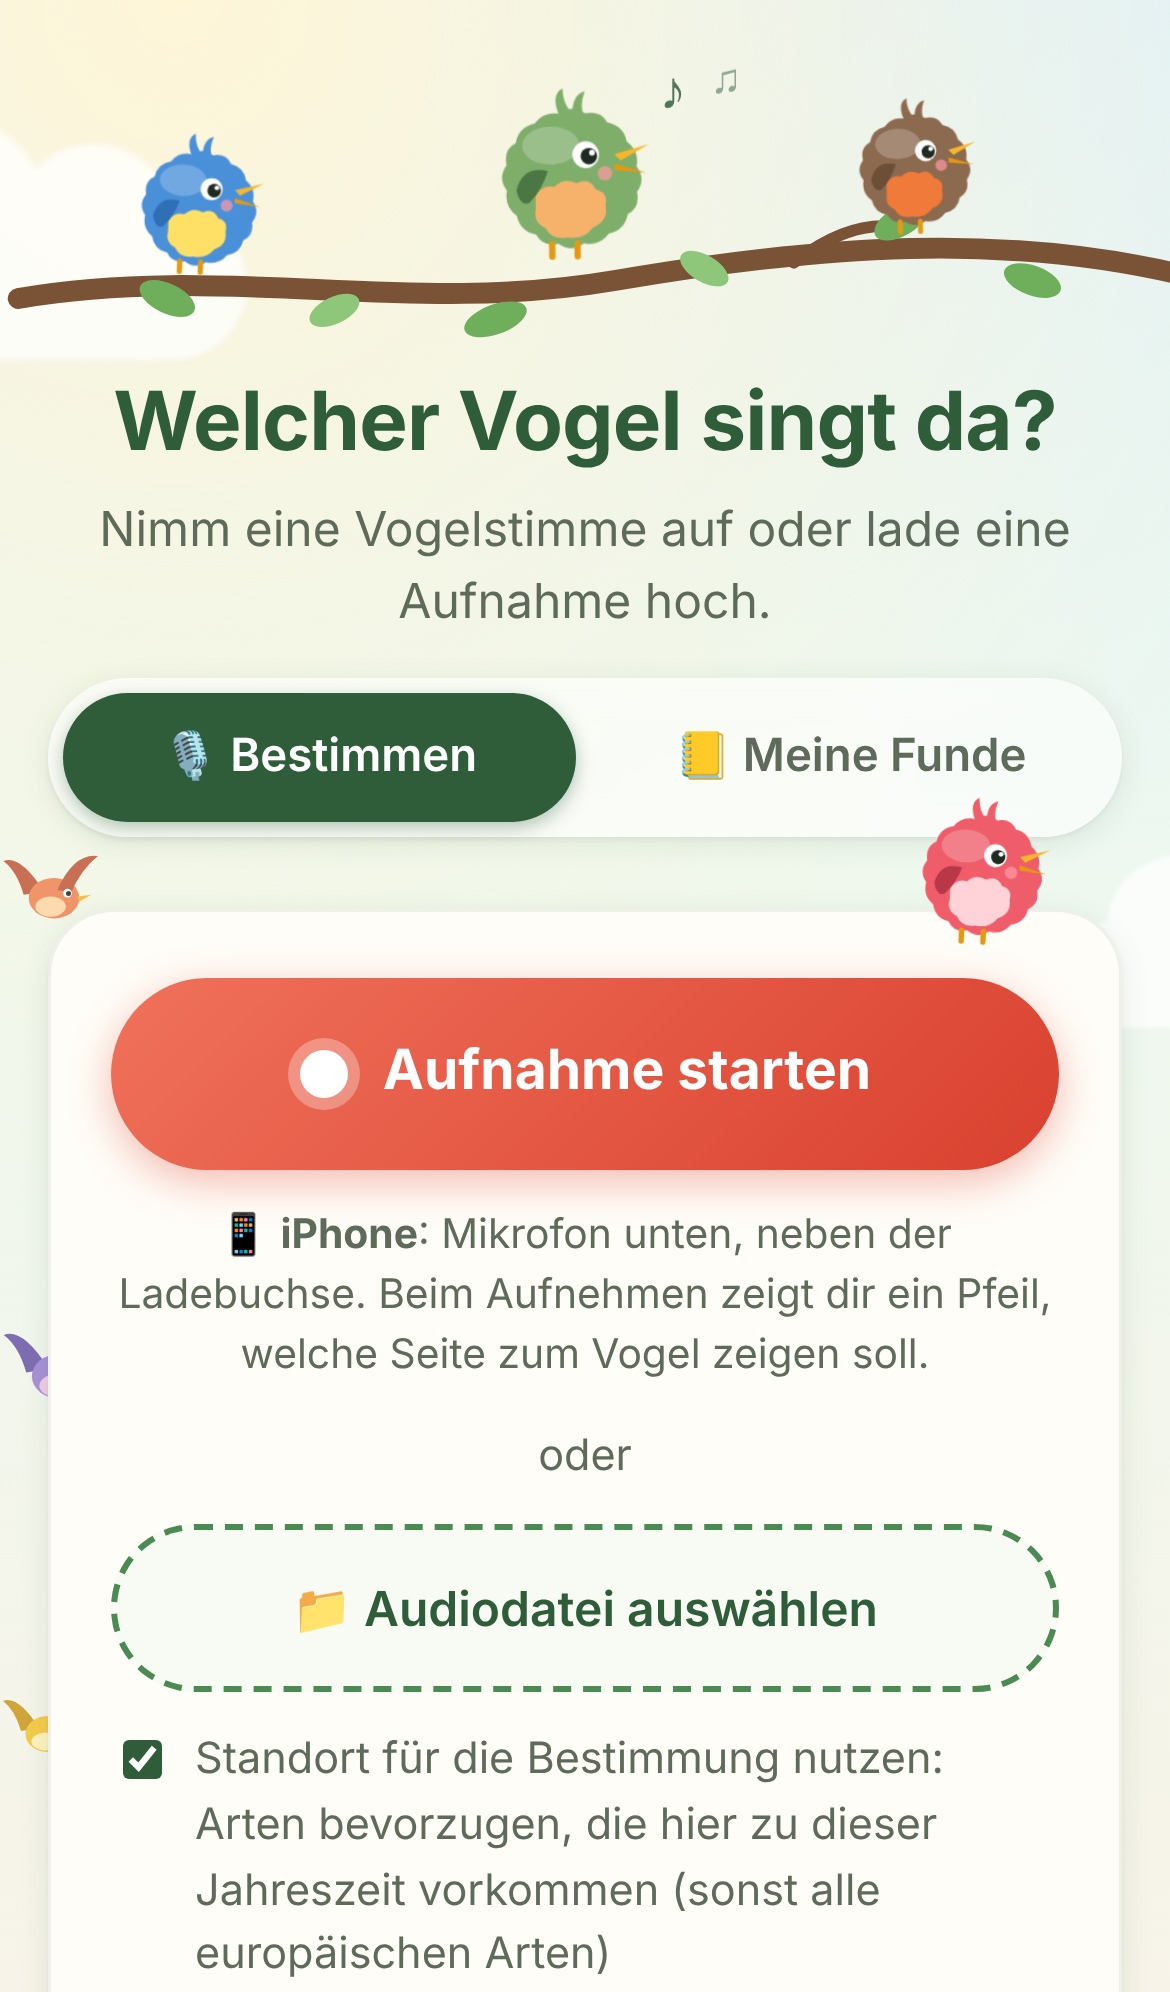
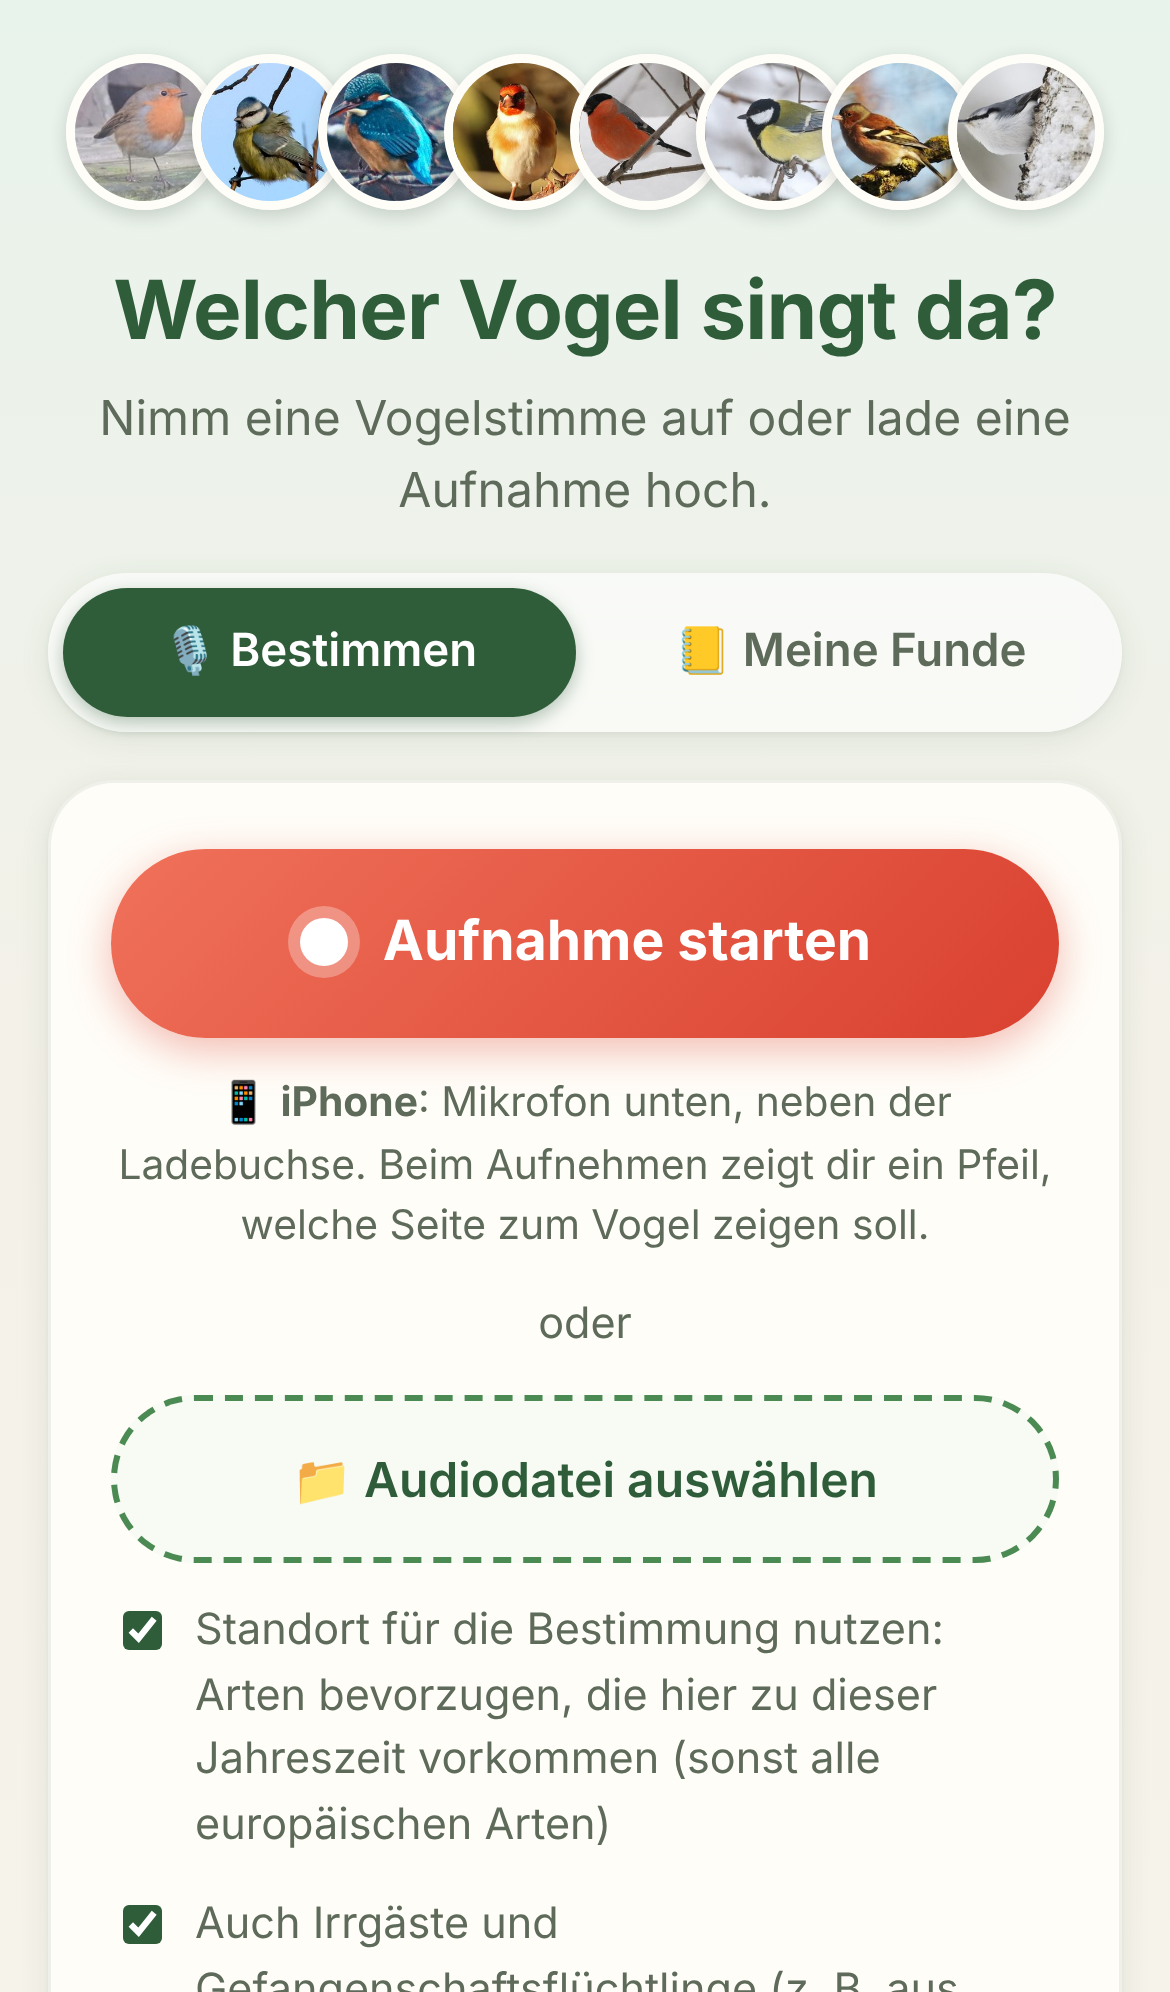
Echte Vogelfotos statt Comicvögel, ruhiges Design
- Comicvögel, Wolken, fliegende Vögel und Wackel-Animationen entfernt
- Runde Porträts echter Vögel (Rotkehlchen, Blaumeise, Eisvogel,
  Stieglitz, Gimpel, Kohlmeise, Buchfink, Kleiber): als Reihe im Kopf,
  auf breiten Bildschirmen ruhig an beiden Rändern
- Fotos von iNaturalist (CC BY 4.0), Bildnachweis in der App
- Pfeil im Aufnahme-Vollbild steht jetzt still

Claude-Session: https://claude.ai/code/session_01DCcVV16AViu8jSSijMqtxS

diff --git a/index.html b/index.html
@@ -12,50 +12,11 @@
 <link rel="stylesheet" href="style.css">
 </head>
 <body>
-<!-- Vogel-Bausteine: Farben kommen über CSS-Variablen (--c1 Körper, --c2 Bauch, --c3 Flügel) -->
-<svg width="0" height="0" style="position:absolute" aria-hidden="true">
-  <symbol id="bird" viewBox="0 0 64 64">
-    <path style="fill:var(--c1)" d="M30 13 q-3 -7 1 -9 q0 5 3 8 q0 -6 4 -7 q-2 5 0 9 z"/>
-    <path style="fill:var(--c1)" d="M30 12 q4 -3 8 0 q5 -1 7 3 q5 1 6 6 q4 3 3 8 q3 4 0 8 q1 5 -3 7 q-1 5 -6 6 q-3 4 -8 3 q-4 3 -8 0 q-5 1 -7 -3 q-5 -1 -6 -6 q-4 -3 -3 -8 q-3 -4 0 -8 q-1 -5 3 -7 q1 -5 6 -6 q3 -4 8 -3 z"/>
-    <ellipse cx="27" cy="22" rx="9" ry="6" fill="#fff" opacity=".22"/>
-    <path style="fill:var(--c2)" d="M22 38 q2 -4 6 -3 q3 -3 7 -1 q4 -2 6 2 q4 1 3 5 q1 5 -4 7 q-3 4 -8 3 q-5 1 -7 -3 q-4 -2 -3 -6 z"/>
-    <path style="fill:var(--c3)" d="M16 36 q2 -8 10 -6 q-2 6 -6 10 q-3 1 -4 -4 z"/>
-    <circle cx="38" cy="25" r="4.2" fill="#fff"/><circle cx="39" cy="25.5" r="2.6" fill="#1f2a22"/><circle cx="40" cy="24.4" r=".9" fill="#fff"/>
-    <circle cx="44" cy="31" r="2.3" fill="#ff9aa2" opacity=".7"/>
-    <path style="fill:var(--beak,#f6b72c)" d="M47 25 l11 -3 l-9 5 z"/><path fill="#e39a12" d="M47 28 l10 3 l-10 -1 z"/>
-    <path stroke="#e39a12" stroke-width="2" stroke-linecap="round" fill="none" d="M27 53 v4 M35 53 v4"/>
-  </symbol>
-  <symbol id="bird-fly" viewBox="0 0 64 48">
-    <path style="fill:var(--c3)" d="M26 26 q-14 -22 -24 -18 q8 6 12 20 z"/>
-    <ellipse cx="32" cy="30" rx="15" ry="12" style="fill:var(--c1)"/>
-    <ellipse cx="30" cy="35" rx="9" ry="6" style="fill:var(--c2)"/>
-    <path style="fill:var(--c3)" d="M34 25 q10 -22 24 -20 q-10 8 -16 22 z"/>
-    <circle cx="40" cy="27" r="2.6" fill="#fff"/><circle cx="40.6" cy="27.3" r="1.5" fill="#1f2a22"/>
-    <path fill="#f6b72c" d="M46 29 l8 -1 l-7 4 z"/>
-  </symbol>
-</svg>
-
-<!-- fliegende Vögel im Hintergrund -->
-<div class="sky" aria-hidden="true">
-  <svg class="fly f1" style="--c1:#4a90d9;--c2:#ffe066;--c3:#2f6fb5"><use href="#bird-fly"/></svg>
-  <svg class="fly f2" style="--c1:#ef8354;--c2:#ffd6a5;--c3:#c0583a"><use href="#bird-fly"/></svg>
-  <svg class="fly f3" style="--c1:#9b7fd4;--c2:#f3c4e8;--c3:#6c55a8"><use href="#bird-fly"/></svg>
-  <svg class="fly f4" style="--c1:#f4c430;--c2:#fff1b8;--c3:#c9971c"><use href="#bird-fly"/></svg>
-  <div class="cloud c1"></div><div class="cloud c2"></div><div class="cloud c3"></div>
-</div>
+<aside class="rail rail-left" aria-hidden="true"><figure><img src="img/voegel/buchfink.jpg" alt="Buchfink" title="Buchfink" width="120" height="120" loading="lazy" class=""><figcaption>Buchfink</figcaption></figure><figure><img src="img/voegel/kohlmeise.jpg" alt="Kohlmeise" title="Kohlmeise" width="120" height="120" loading="lazy" class=""><figcaption>Kohlmeise</figcaption></figure><figure><img src="img/voegel/kleiber.jpg" alt="Kleiber" title="Kleiber" width="120" height="120" loading="lazy" class=""><figcaption>Kleiber</figcaption></figure><figure><img src="img/voegel/gimpel.jpg" alt="Gimpel" title="Gimpel" width="120" height="120" loading="lazy" class=""><figcaption>Gimpel</figcaption></figure></aside>
+<aside class="rail rail-right" aria-hidden="true"><figure><img src="img/voegel/eisvogel.jpg" alt="Eisvogel" title="Eisvogel" width="120" height="120" loading="lazy" class=""><figcaption>Eisvogel</figcaption></figure><figure><img src="img/voegel/blaumeise.jpg" alt="Blaumeise" title="Blaumeise" width="120" height="120" loading="lazy" class=""><figcaption>Blaumeise</figcaption></figure><figure><img src="img/voegel/stieglitz.jpg" alt="Stieglitz" title="Stieglitz" width="120" height="120" loading="lazy" class=""><figcaption>Stieglitz</figcaption></figure><figure><img src="img/voegel/rotkehlchen.jpg" alt="Rotkehlchen" title="Rotkehlchen" width="120" height="120" loading="lazy" class=""><figcaption>Rotkehlchen</figcaption></figure></aside>
 <main>
   <header class="hero">
-    <svg class="scene" viewBox="0 0 360 120" aria-hidden="true">
-      <path d="M-10 92 C 60 80, 120 98, 190 86 S 320 70, 380 84" stroke="#7a5236" stroke-width="7" fill="none" stroke-linecap="round"/>
-      <path d="M250 80 q 18 -14 34 -12" stroke="#7a5236" stroke-width="4" fill="none" stroke-linecap="round"/>
-      <g fill="#6fae5a"><ellipse cx="40" cy="92" rx="10" ry="5" transform="rotate(25 40 92)"/><ellipse cx="150" cy="99" rx="11" ry="5" transform="rotate(-20 150 99)"/>
-        <ellipse cx="286" cy="66" rx="10" ry="5" transform="rotate(-30 286 66)"/><ellipse cx="330" cy="86" rx="10" ry="5" transform="rotate(20 330 86)"/></g>
-      <g fill="#8fc77a"><ellipse cx="96" cy="96" rx="9" ry="4.5" transform="rotate(-25 96 96)"/><ellipse cx="220" cy="82" rx="9" ry="4.5" transform="rotate(30 220 82)"/></g>
-      <use href="#bird" class="perch p1" x="22" y="34" width="56" height="56" style="--c1:#4a90d9;--c2:#ffe066;--c3:#2f6fb5"/>
-      <use href="#bird" class="perch p2" x="140" y="20" width="68" height="68" style="--c1:#7fae6b;--c2:#f6b26b;--c3:#4b7744"/>
-      <use href="#bird" class="perch p3" x="262" y="30" width="54" height="54" style="--c1:#8c6a4f;--c2:#f07a3a;--c3:#6d4f38"/>
-      <g class="notes" fill="#2f5d3a"><text x="205" y="30" font-size="18">♪</text><text x="222" y="18" font-size="14">♫</text><text x="80" y="36" font-size="14">♪</text></g>
-    </svg>
+    <div class="bird-row" aria-hidden="true"><img src="img/voegel/rotkehlchen.jpg" alt="Rotkehlchen" title="Rotkehlchen" width="120" height="120" loading="lazy" class=""><img src="img/voegel/blaumeise.jpg" alt="Blaumeise" title="Blaumeise" width="120" height="120" loading="lazy" class=""><img src="img/voegel/eisvogel.jpg" alt="Eisvogel" title="Eisvogel" width="120" height="120" loading="lazy" class=""><img src="img/voegel/stieglitz.jpg" alt="Stieglitz" title="Stieglitz" width="120" height="120" loading="lazy" class=""><img src="img/voegel/gimpel.jpg" alt="Gimpel" title="Gimpel" width="120" height="120" loading="lazy" class=""><img src="img/voegel/kohlmeise.jpg" alt="Kohlmeise" title="Kohlmeise" width="120" height="120" loading="lazy" class=""><img src="img/voegel/buchfink.jpg" alt="Buchfink" title="Buchfink" width="120" height="120" loading="lazy" class=""><img src="img/voegel/kleiber.jpg" alt="Kleiber" title="Kleiber" width="120" height="120" loading="lazy" class=""></div>
     <h1>Welcher Vogel singt da?</h1>
     <p class="sub">Nimm eine Vogelstimme auf oder lade eine Aufnahme hoch.</p>
   </header>
@@ -66,8 +27,7 @@
   </nav>
 
   <div id="viewIdentify">
-  <section class="card main-card">
-    <svg class="peek" aria-hidden="true" style="--c1:#ef5d6a;--c2:#ffd3d8;--c3:#b8384a"><use href="#bird"/></svg>
+  <section class="card">
     <button id="recBtn" class="rec" aria-label="Aufnahme starten">
       <span class="dot"></span><span id="recLabel">Aufnahme starten</span>
     </button>
@@ -100,7 +60,7 @@
   <section id="status" class="status" hidden></section>
 
   <section id="results" hidden>
-    <h2 class="with-bird"><svg class="mini" aria-hidden="true" style="--c1:#f4c430;--c2:#fff1b8;--c3:#c9971c"><use href="#bird"/></svg> Ergebnis</h2>
+    <h2>Ergebnis</h2>
     <p id="filterInfo" class="hint"></p>
     <ol id="resultList" class="results"></ol>
     <p id="noiseInfo" class="hint"></p>
@@ -131,7 +91,7 @@
         <textarea id="detailNote" rows="2" placeholder="z. B. Verhalten, Wetter, Anzahl …"></textarea>
       </label>
     </section>
-    <h2 class="with-bird"><svg class="mini" aria-hidden="true" style="--c1:#9b7fd4;--c2:#f3c4e8;--c3:#6c55a8"><use href="#bird"/></svg> Erkannte Vögel</h2>
+    <h2>Erkannte Vögel</h2>
     <p class="hint">Tippe auf „Gesehen“, wenn du den Vogel auch gesehen hast.</p>
     <ol id="detailResults" class="results"></ol>
     <p id="detailNoise" class="hint"></p>
@@ -141,6 +101,11 @@
   <footer>
     Erkennung mit <a href="https://birdnet.cornell.edu/" target="_blank" rel="noopener">BirdNET</a>
     (Cornell Lab of Ornithology &amp; TU Chemnitz), Modell lizenziert unter CC BY-NC 4.0 (nur nicht-kommerzielle Nutzung). Die Analyse läuft komplett auf deinem Gerät, Aufnahmen und Funde bleiben auf diesem Gerät. Nur für den Ortsnamen wird der Standort an OpenStreetMap geschickt.<br>
+    <details class="credits"><summary>Bildnachweis der Vogelfotos</summary>
+      <ul><li>Rotkehlchen: <a href="https://www.inaturalist.org/observations/333200284" target="_blank" rel="noopener">Foto</a> von Susan Marley, <a href="http://creativecommons.org/licenses/by/4.0/" target="_blank" rel="noopener">CC BY 4.0</a>, zugeschnitten</li><li>Blaumeise: <a href="https://www.inaturalist.org/observations/333419229" target="_blank" rel="noopener">Foto</a> von Daniel Ghyselinck, <a href="http://creativecommons.org/licenses/by/4.0/" target="_blank" rel="noopener">CC BY 4.0</a>, zugeschnitten</li><li>Buchfink: <a href="https://www.inaturalist.org/observations/333205019" target="_blank" rel="noopener">Foto</a> von Gabriele Vaudano, <a href="http://creativecommons.org/licenses/by/4.0/" target="_blank" rel="noopener">CC BY 4.0</a>, zugeschnitten</li><li>Stieglitz: <a href="https://www.inaturalist.org/observations/333506346" target="_blank" rel="noopener">Foto</a> von Dave, <a href="http://creativecommons.org/licenses/by/4.0/" target="_blank" rel="noopener">CC BY 4.0</a>, zugeschnitten</li><li>Eisvogel: <a href="https://www.inaturalist.org/observations/333344180" target="_blank" rel="noopener">Foto</a> von Luke, <a href="http://creativecommons.org/licenses/by/4.0/" target="_blank" rel="noopener">CC BY 4.0</a>, zugeschnitten</li><li>Kohlmeise: <a href="https://www.inaturalist.org/observations/333287127" target="_blank" rel="noopener">Foto</a> von Константин Селивёрстов, <a href="http://creativecommons.org/licenses/by/4.0/" target="_blank" rel="noopener">CC BY 4.0</a>, zugeschnitten</li><li>Gimpel: <a href="https://www.inaturalist.org/observations/333434855" target="_blank" rel="noopener">Foto</a> von Вячеслав Шуплецов, <a href="http://creativecommons.org/licenses/by/4.0/" target="_blank" rel="noopener">CC BY 4.0</a>, zugeschnitten</li><li>Kleiber: <a href="https://www.inaturalist.org/observations/333012664" target="_blank" rel="noopener">Foto</a> von Полина Полежанкина, <a href="http://creativecommons.org/licenses/by/4.0/" target="_blank" rel="noopener">CC BY 4.0</a>, zugeschnitten</li></ul>
+      Fotos über <a href="https://www.inaturalist.org/" target="_blank" rel="noopener">iNaturalist</a> /
+      <a href="https://www.gbif.org/" target="_blank" rel="noopener">GBIF</a>.
+    </details>
     Tipp: 10–30 Sekunden aufnehmen, Handy in Richtung Vogel halten, möglichst wenig Nebengeräusche.
   </footer>
 </main>
@@ -157,7 +122,6 @@
       <div id="roWhere" class="ro-where"></div>
       <p id="roHint" class="ro-hint"></p>
       <div class="ro-live">
-        <svg class="ro-bird" aria-hidden="true" style="--c1:#7fae6b;--c2:#f6b26b;--c3:#4b7744"><use href="#bird"/></svg>
         <div id="timer" class="timer">0:00</div>
       </div>
       <canvas id="level" width="600" height="80"></canvas>

diff --git a/style.css b/style.css
@@ -10,13 +10,11 @@
   --shadow: 0 2px 10px rgba(47, 93, 58, .10), 0 1px 2px rgba(0, 0, 0, .05);
 }
 * { box-sizing: border-box; }
-html { background: #eaf6fb; }
+html { background: #f4f1e8; }
 body {
   margin: 0; color: var(--text); min-height: 100vh;
   font: 16px/1.5 system-ui, -apple-system, "Segoe UI", Roboto, sans-serif;
-  background:
-    radial-gradient(circle at 15% 0%, #fff6d8 0, transparent 40%),
-    linear-gradient(180deg, #dff1fa 0%, #eef8ef 45%, #f7f3e8 100%) fixed;
+  background: linear-gradient(180deg, #e8f3ec 0%, #f4f1e8 55%, #f6f3ea 100%) fixed;
 }
 body.no-scroll { overflow: hidden; }
 main { position: relative; z-index: 1; max-width: 560px; margin: 0 auto; padding: 8px 16px 40px; }
@@ -25,46 +23,34 @@ h2 { font-size: 1.25rem; margin: 24px 0 8px; color: var(--green); }
 .sub { margin: 0; color: var(--muted); }
 button { font: inherit; cursor: pointer; border: 0; }
 
-/* ---------- Himmel mit Wolken und fliegenden Vögeln ---------- */
-.sky { position: fixed; inset: 0; pointer-events: none; z-index: 0; overflow: hidden; }
-.cloud {
-  position: absolute; width: 160px; height: 50px; border-radius: 50px; background: #fff; opacity: .75;
-  filter: blur(1px);
+/* ---------- Kopfbereich mit Vogelporträts ---------- */
+.hero { text-align: center; margin: 10px 0 16px; }
+.bird-row { display: flex; justify-content: center; margin: 6px 0 14px; padding-left: 10px; }
+.bird-row img {
+  width: 52px; height: 52px; border-radius: 50%; object-fit: cover; margin-left: -10px;
+  border: 3px solid #fffdf8; box-shadow: 0 2px 6px rgba(31, 42, 34, .18);
 }
-.cloud::before, .cloud::after { content: ""; position: absolute; background: #fff; border-radius: 50%; }
-.cloud::before { width: 70px; height: 70px; top: -32px; left: 24px; }
-.cloud::after { width: 54px; height: 54px; top: -22px; left: 82px; }
-.cloud.c1 { top: 70px; left: -40px; animation: drift 70s linear infinite; }
-.cloud.c2 { top: 300px; right: -60px; transform: scale(.7); animation: drift 90s linear infinite reverse; }
-.cloud.c3 { top: 620px; left: 30%; transform: scale(.55); opacity: .5; animation: drift 110s linear infinite; }
-@keyframes drift { from { translate: -10vw 0; } to { translate: 10vw 0; } }
+@media (min-width: 420px) { .bird-row img { width: 60px; height: 60px; } }
 
-.fly { position: absolute; width: 46px; height: 34px; opacity: .85; }
-.fly.f1 { top: 18%; animation: flyRight 28s linear infinite; }
-.fly.f2 { top: 42%; width: 36px; animation: flyRight 36s linear infinite 9s; }
-.fly.f3 { top: 66%; width: 40px; animation: flyLeft 32s linear infinite 4s; }
-.fly.f4 { top: 84%; width: 32px; animation: flyRight 40s linear infinite 18s; }
-@keyframes flyRight {
-  0% { transform: translate(-80px, 0); } 25% { transform: translate(25vw, -24px); }
-  50% { transform: translate(50vw, 8px); } 75% { transform: translate(75vw, -18px); }
-  100% { transform: translate(calc(100vw + 80px), 0); }
+/* Vögel am Rand (nur auf breiten Bildschirmen, ruhig und ohne Bewegung) */
+.rail { display: none; }
+@media (min-width: 1000px) {
+  .rail {
+    position: fixed; top: 0; bottom: 0; width: calc((100vw - 560px) / 2); z-index: 0;
+    display: flex; flex-direction: column; justify-content: space-evenly; align-items: center;
+    pointer-events: none;
+  }
+  .rail-left { left: 0; } .rail-right { right: 0; }
+  .bird-row { display: none; }
+  .rail figure { margin: 0; text-align: center; }
+  .rail-left figure:nth-child(even) { translate: 40px 0; }
+  .rail-right figure:nth-child(even) { translate: -40px 0; }
+  .rail img {
+    width: 110px; height: 110px; border-radius: 50%; object-fit: cover;
+    border: 4px solid #fffdf8; box-shadow: 0 4px 14px rgba(31, 42, 34, .16);
+  }
+  .rail figcaption { font-size: .8rem; color: var(--muted); margin-top: 4px; font-weight: 600; }
 }
-@keyframes flyLeft {
-  0% { transform: translate(calc(100vw + 80px), 0) scaleX(-1); } 50% { transform: translate(50vw, -26px) scaleX(-1); }
-  100% { transform: translate(-80px, 0) scaleX(-1); }
-}
-
-/* ---------- Kopfbereich mit Ast und Vögeln ---------- */
-.hero { text-align: center; margin: 0 0 14px; }
-.scene { width: 100%; max-width: 420px; height: auto; display: block; margin: 0 auto -6px; overflow: visible; }
-.perch { transform-box: fill-box; transform-origin: 50% 90%; animation: bob 3.2s ease-in-out infinite; }
-.perch.p2 { animation-delay: -1.1s; animation-duration: 2.7s; }
-.perch.p3 { animation-delay: -2s; animation-duration: 3.6s; }
-@keyframes bob { 0%, 100% { transform: rotate(-3deg); } 50% { transform: rotate(4deg) translateY(-2px); } }
-.notes text { animation: note 2.6s ease-in-out infinite; opacity: 0; }
-.notes text:nth-child(2) { animation-delay: .7s; }
-.notes text:nth-child(3) { animation-delay: 1.4s; }
-@keyframes note { 0% { opacity: 0; transform: translateY(6px); } 30% { opacity: .9; } 100% { opacity: 0; transform: translateY(-14px); } }
 
 /* ---------- Tabs ---------- */
 .tabs {
@@ -80,8 +66,6 @@ button { font: inherit; cursor: pointer; border: 0; }
   box-shadow: var(--shadow); margin-bottom: 16px; border: 1px solid rgba(47, 93, 58, .08);
   display: flex; flex-direction: column; align-items: center; gap: 12px;
 }
-.main-card { margin-top: 24px; }
-.peek { position: absolute; width: 58px; height: 58px; top: -40px; right: 18px; animation: bob 3s ease-in-out infinite; }
 .rec {
   display: flex; align-items: center; gap: 12px; justify-content: center;
   width: 100%; padding: 18px; border-radius: 999px; color: #fff; font-size: 1.15rem; font-weight: 700;
@@ -121,8 +105,6 @@ audio { width: 100%; }
 @keyframes spin { to { transform: rotate(360deg); } }
 
 /* ---------- Ergebnisse ---------- */
-.with-bird { display: flex; align-items: center; gap: 8px; }
-.mini { width: 34px; height: 34px; flex: none; }
 .results { list-style: none; padding: 0; margin: 0; display: flex; flex-direction: column; gap: 12px; }
 .result {
   background: var(--card); border-radius: 18px; padding: 12px; box-shadow: var(--shadow);
@@ -180,6 +162,9 @@ audio { width: 100%; }
 
 footer { margin-top: 32px; font-size: .8rem; color: var(--muted); text-align: center; }
 footer a { color: var(--green); }
+.credits { margin: 10px auto; max-width: 480px; text-align: left; }
+.credits summary { cursor: pointer; text-align: center; }
+.credits ul { padding-left: 18px; margin: 6px 0; }
 
 /* ---------- Vollbild während der Aufnahme ---------- */
 .rec-overlay {
@@ -202,7 +187,6 @@ footer a { color: var(--green); }
 .ro-where { background: rgba(255,255,255,.15); padding: 4px 14px; border-radius: 999px; font-weight: 600; }
 .ro-hint { margin: 0; opacity: .9; max-width: 340px; }
 .ro-live { display: flex; align-items: center; gap: 12px; }
-.ro-bird { width: 64px; height: 64px; animation: bob 1.2s ease-in-out infinite; }
 .rec-overlay .timer { font-size: 2.6rem; font-weight: 800; font-variant-numeric: tabular-nums; }
 .rec-overlay canvas { width: 100%; height: 80px; }
 .rec-overlay #stopBtn { max-width: 340px; }
@@ -211,13 +195,9 @@ footer a { color: var(--green); }
 .ro-arrow { display: flex; flex-direction: column; align-items: center; gap: 4px; }
 .mic-top .ro-arrow { flex-direction: column-reverse; }
 .arrow-svg { width: 84px; height: 100px; fill: #ffd84d; filter: drop-shadow(0 4px 10px rgba(0,0,0,.35)); }
-.mic-bottom .arrow-svg { animation: pointDown 1.1s ease-in-out infinite; }
-.mic-top .arrow-svg { transform: rotate(180deg); animation: pointUp 1.1s ease-in-out infinite; }
-@keyframes pointDown { 50% { translate: 0 10px; } }
-@keyframes pointUp { 50% { translate: 0 -10px; } }
+.mic-top .arrow-svg { transform: rotate(180deg); }
 .ro-mic-label { font-weight: 800; font-size: 1.1rem; color: #ffd84d; letter-spacing: .02em; }
 
 @media (prefers-reduced-motion: reduce) {
   *, *::before, *::after { animation: none !important; transition: none !important; }
-  .fly { display: none; }
 }

diff --git a/README.md b/README.md
@@ -77,6 +77,12 @@ pip install -r tools/requirements.txt
 cd tools && python make_europe_list.py && python build_data.py
 ```
 
+## Bildnachweis
+
+Die Vogelfotos stammen von [iNaturalist](https://www.inaturalist.org/) (über [GBIF](https://www.gbif.org/))
+und stehen unter **CC BY 4.0**. Fotografen und Quellen stehen in `img/voegel/bildnachweis.json`
+und in der App unter „Bildnachweis der Vogelfotos“. Die Fotos wurden quadratisch zugeschnitten.
+
 ## Lizenz der Modelle
 
 Die BirdNET-Modelle stehen unter **CC BY-NC 4.0**. Private und nicht-kommerzielle Nutzung
